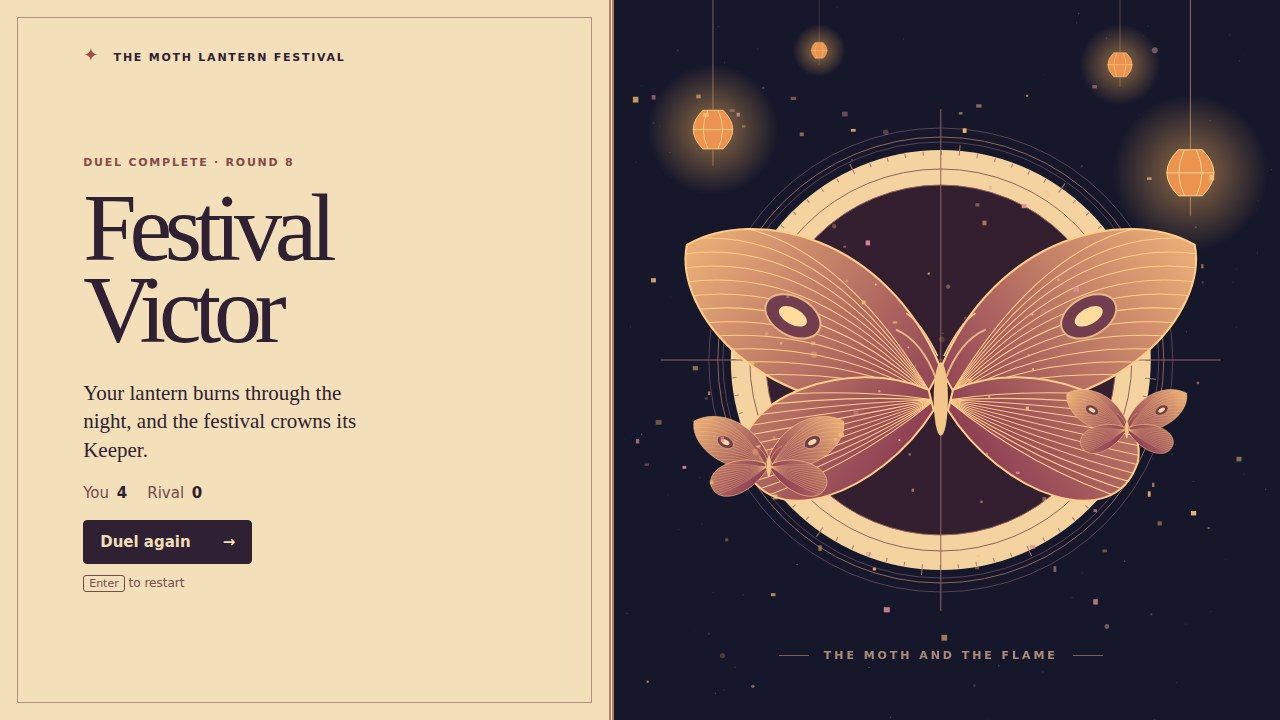
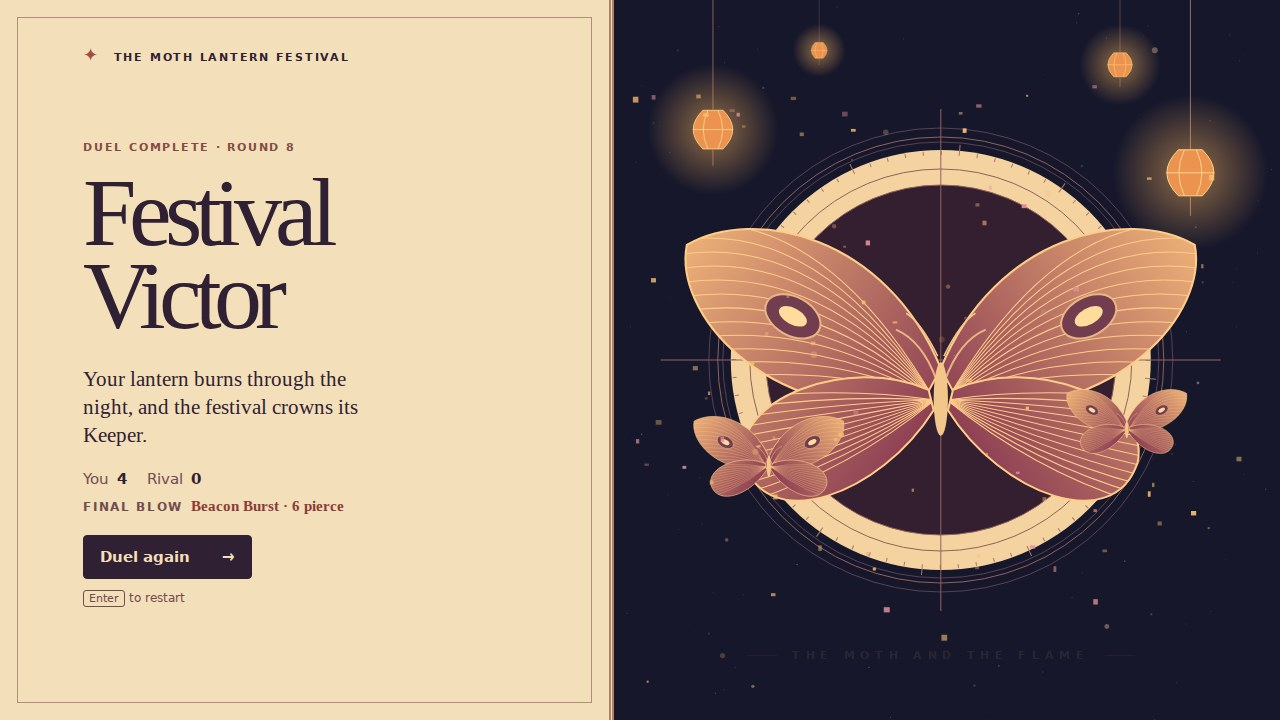
Lead the sheet with the live table; name the final blow

diff --git a/game/src/view.js b/game/src/view.js
@@ -47,7 +47,8 @@ export function feature(scene, game) {
       <p class="eyebrow">${title ? 'A DUEL AT DUSK' : `DUEL COMPLETE · ROUND ${game.round}`}</p>
       <h1>${name}</h1>
       <p class="feature-copy">${copy}</p>
-      ${title ? '' : `<div class="result-score"><span>You <b>${game.player.embers}</b></span><span>Rival <b>${game.rival.embers}</b></span></div>`}
+      ${title ? '' : `<div class="result-score"><span>You <b>${game.player.embers}</b></span><span>Rival <b>${game.rival.embers}</b></span></div>
+      <div class="finisher">${won ? '<span>Final blow</span><b>Beacon Burst · 6 pierce</b>' : `<span>Rival kept</span><b>${game.rival.embers} embers</b>`}</div>`}
       <button class="primary" data-action="start">${title ? 'Take up your lantern' : 'Duel again'} <span>→</span></button>
       <div class="feature-key"><kbd>Enter</kbd> to ${title ? 'begin' : 'restart'}</div>
     </div>

diff --git a/game/src/offline.js b/game/src/offline.js
@@ -776,7 +776,8 @@ function feature(scene, game) {
       <p class="eyebrow">${title ? 'A DUEL AT DUSK' : `DUEL COMPLETE · ROUND ${game.round}`}</p>
       <h1>${name}</h1>
       <p class="feature-copy">${copy}</p>
-      ${title ? '' : `<div class="result-score"><span>You <b>${game.player.embers}</b></span><span>Rival <b>${game.rival.embers}</b></span></div>`}
+      ${title ? '' : `<div class="result-score"><span>You <b>${game.player.embers}</b></span><span>Rival <b>${game.rival.embers}</b></span></div>
+      <div class="finisher">${won ? '<span>Final blow</span><b>Beacon Burst · 6 pierce</b>' : `<span>Rival kept</span><b>${game.rival.embers} embers</b>`}</div>`}
       <button class="primary" data-action="start">${title ? 'Take up your lantern' : 'Duel again'} <span>→</span></button>
       <div class="feature-key"><kbd>Enter</kbd> to ${title ? 'begin' : 'restart'}</div>
     </div>

diff --git a/game/style.css b/game/style.css
@@ -196,3 +196,6 @@ details p { position: absolute; right: 0; width: 300px; line-height: 1.55; borde
 @media (max-height: 700px) { .discard-prompt { bottom: 162px; } }
 .still .sparks i { opacity: .85; transform: translate(var(--x), var(--y)) rotate(130deg); }
 .still .plate-label { opacity: 1; }
+.finisher { display: flex; gap: 8px; align-items: baseline; margin: -8px 0 20px; font-size: 12px; color: #714c51; }
+.finisher span { text-transform: uppercase; letter-spacing: .14em; font-weight: 750; }
+.finisher b { color: #8a3b39; font-family: Georgia, serif; font-size: 15px; }

diff --git a/AGENTS.md b/AGENTS.md
@@ -12,7 +12,7 @@ Title screen (game name, one-line how to play, Start). Table (opponent hand top,
 ## Hard rules
 - `game/index.html` plus ES modules under `game/src/`, standard browser JS, no imports outside `game/`, no network, no libraries (vendor stays untouched).
 - `main.ts` at root (Node 22, stdlib only): copies `game/` and `screenshots/` to `/output` (env `MAKEFUN_OUTPUT_DIR` or `/output`) and writes `dossier.json` with `buildDossier` from `./vendor/makefun-game.ts`, with the starter's caps: text_max_bytes 163840, screenshots {max:4,max_bytes:262144}, game_max_files 993, game_max_bytes 50331648, game_path_max_bytes 1000.
-- `screenshots/`: 4 images named `1-title.jpg`, `2-table.jpg`, `3-win.jpg`, `4-loss.jpg` (JPEG also accepted), real headless-Chrome captures of `game/index.html?shot=title|table|win|loss&seed=1` at 1280x720, whole PNG, under 256 KiB each.
+- `screenshots/`: 4 images named `1-table.jpg` (cover), `2-title.jpg`, `3-win.jpg`, `4-loss.jpg` (JPEG accepted), real headless-Chrome captures of `game/index.html?shot=title|table|win|loss&seed=1` at 1280x720, whole PNG, under 256 KiB each.
 - `.makefun/owner.json` holds `{"wallet": "AVs8TMJcjvgmozor7LTDcWntMZpC2gAUmWFPe3AG61bo"}`. LICENSE MIT. README carries three make.fun badges.
 - Split the code into files with one clear job each and name functions for what they do.
 
